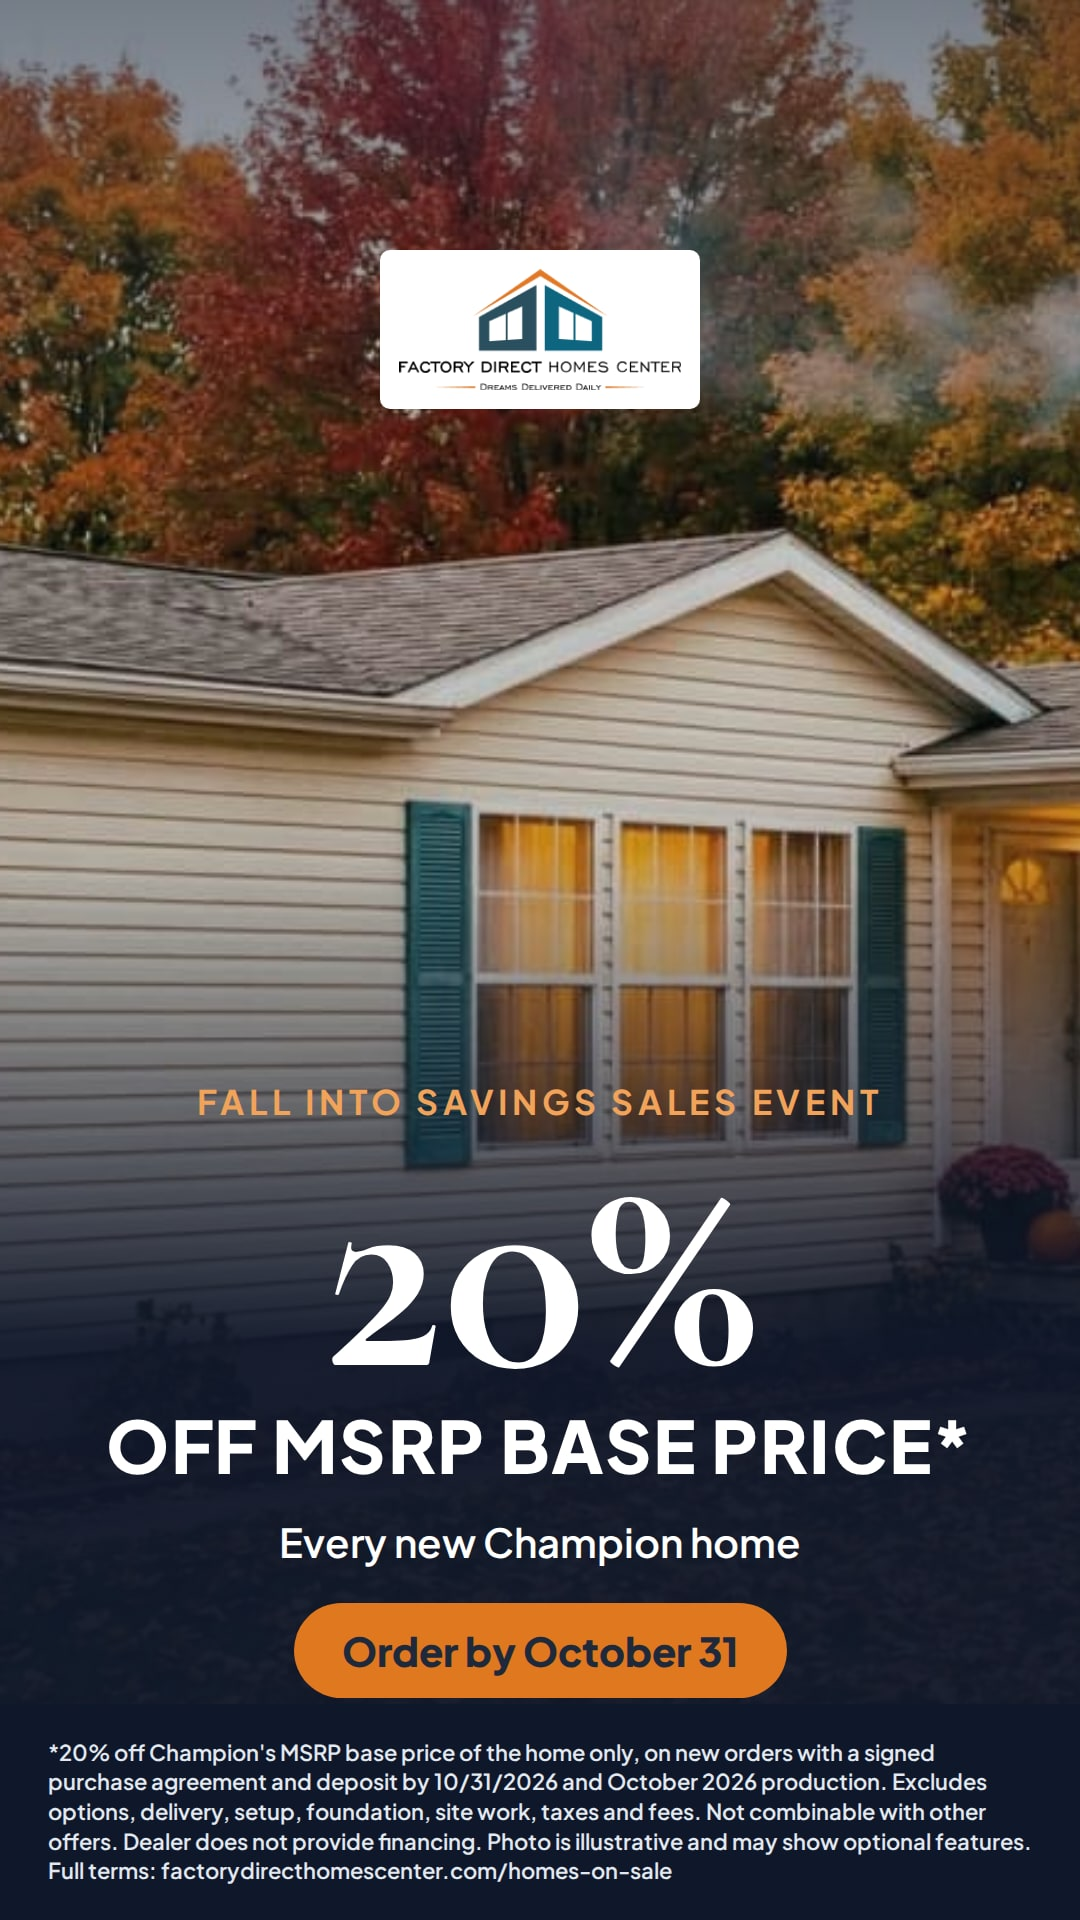
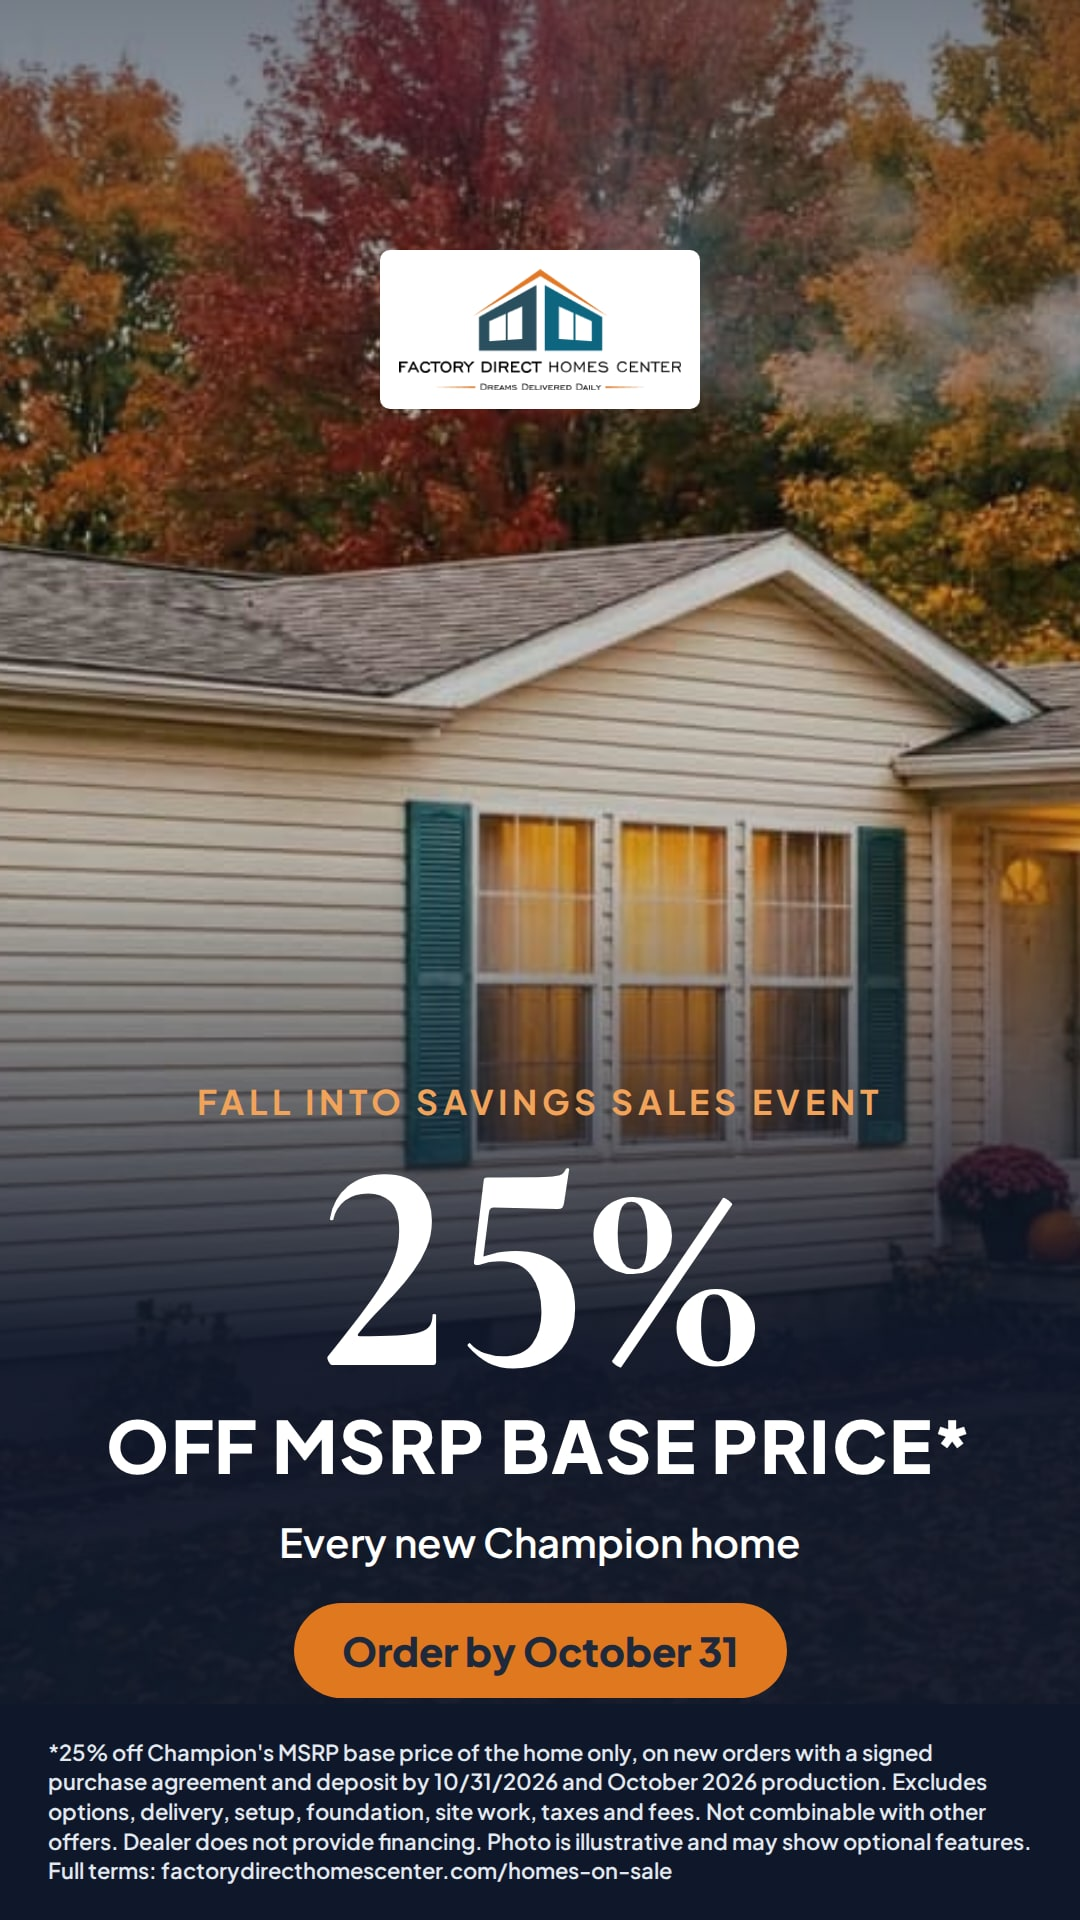
October 2026 sale: raise to 25% off MSRP from Oct 4 through Oct 31
Kyle raised the October offer from 20% to 25% off MSRP base price on every
new Champion home (2026-10-04). As with September's raise, the 20% phase is
kept as it ran (Oct 1-3) and the 25% phase starts today on the same terms:
purchase agreement and deposit by October 31, October 2026 production.

The eight campaign images in public/campaigns/2026-10/ are re-rendered at
25%, with lining numerals so the display 5 no longer drops into the line
below.

Claude-Session: https://claude.ai/code/session_016wuErGPNcxKshXTLWSpvTj

diff --git a/tests/sale.test.ts b/tests/sale.test.ts
@@ -2,16 +2,21 @@ import { test } from "node:test";
 import assert from "node:assert/strict";
 import { saleAmount, saleScope, saleStatusForDay, saleTerms } from "../src/lib/sale";
 
-// October 2026 (Kyle, 2026-10-02): 20% off MSRP base price on every new
-// Champion home, signed and deposited by October 31, October production.
-test("October 2026 runs 20% off every home through October 31", () => {
-  for (const day of ["2026-10-01", "2026-10-15", "2026-10-31"]) {
+// October 2026 (Kyle): 20% off MSRP base price on every new Champion home
+// as advertised Oct 1–3, raised to 25% from Oct 4 (2026-10-04). Signed and
+// deposited by October 31, October production.
+test("October 2026 runs 20% through Oct 3, then 25% off every home through Oct 31", () => {
+  const early = saleStatusForDay("2026-10-02");
+  assert.equal(early.discountPercent, 20);
+  assert.equal(early.nextPhase?.discountPercent, 25);
+  for (const day of ["2026-10-04", "2026-10-15", "2026-10-31"]) {
     const s = saleStatusForDay(day);
     assert.equal(s.active, true, day);
-    assert.equal(s.discountPercent, 20);
+    assert.equal(s.discountPercent, 25, day);
     assert.equal(s.allHomes, true);
     assert.equal(s.productionMonth, "October 2026");
     assert.equal(s.endDateLabel, "October 31, 2026");
+    assert.equal(s.nextPhase, null);
   }
   assert.equal(saleStatusForDay("2026-11-01").active, false);
   assert.equal(saleStatusForDay("2026-10-29").endingSoon, true);
@@ -19,7 +24,7 @@ test("October 2026 runs 20% off every home through October 31", () => {
 
 test("an every-home offer is not worded as 'up to' or 'select'", () => {
   const oct = saleStatusForDay("2026-10-10");
-  assert.equal(saleAmount(oct), "20%");
+  assert.equal(saleAmount(oct), "25%");
   assert.equal(saleScope(oct), "every new Champion floor plan");
   const sep = saleStatusForDay("2026-09-20");
   assert.equal(saleAmount(sep), "up to 25%");
@@ -28,7 +33,7 @@ test("an every-home offer is not worded as 'up to' or 'select'", () => {
 
 test("the terms carry the deadline, production month and the no-financing line", () => {
   const terms = saleTerms(saleStatusForDay("2026-10-10")).join(" ");
-  assert.match(terms, /20% off the MSRP base price on every new Champion/);
+  assert.match(terms, /25% off the MSRP base price on every new Champion/);
   assert.match(terms, /deposit received by October 31, 2026/);
   assert.match(terms, /authorized for production in October 2026/);
   assert.match(terms, /does not provide, arrange or broker financing/);

diff --git a/src/lib/sale.ts b/src/lib/sale.ts
@@ -73,11 +73,22 @@ export const SALE_PHASES: SalePhase[] = [
   },
   // Kyle, 2026-10-02: 20% off MSRP base price on every new Champion home, for
   // a purchase agreement signed and deposited by October 31 with the order
-  // authorized for October 2026 production.
+  // authorized for October 2026 production. Advertised Oct 2–3 at 20%.
   {
     name: "Fall into Savings Sales Event",
     discountPercent: 20,
     startDate: "2026-10-01",
+    endDate: "2026-10-03",
+    productionMonth: "October 2026",
+    allHomes: true,
+  },
+  // Kyle raised October to 25% off (2026-10-04). As with September's raise, the
+  // 20% row above is left as it ran, so the increase starts today and carries
+  // to the end of the month on the same terms.
+  {
+    name: "Fall into Savings Sales Event",
+    discountPercent: 25,
+    startDate: "2026-10-04",
     endDate: "2026-10-31",
     productionMonth: "October 2026",
     allHomes: true,
